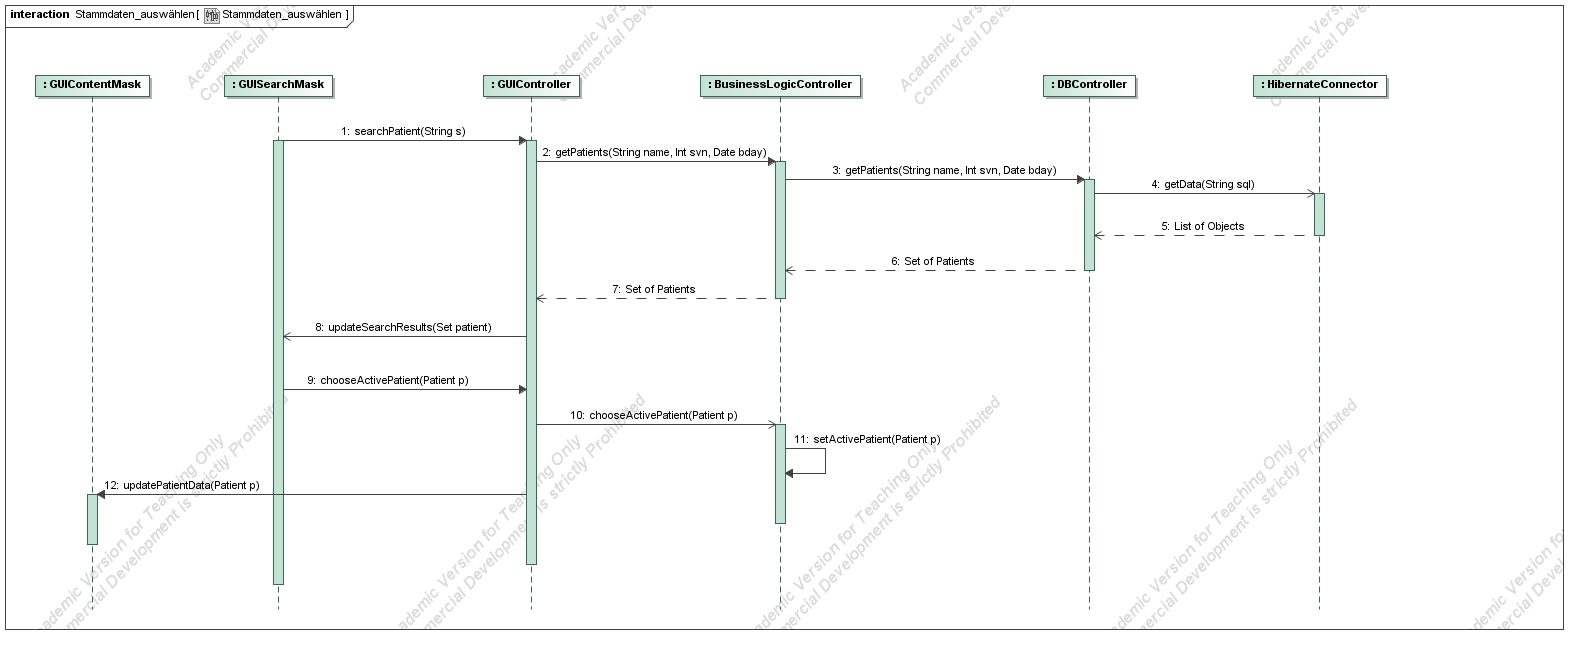
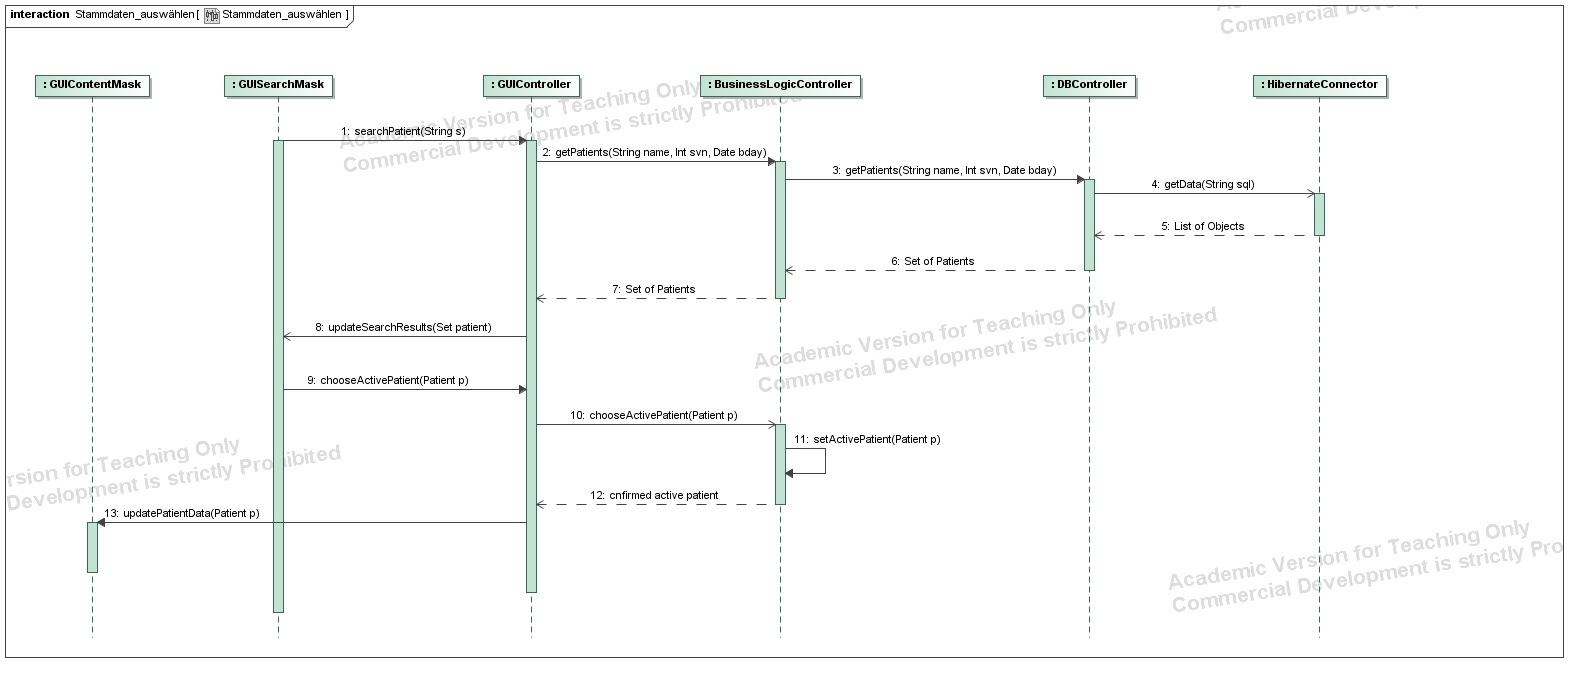
PatientListener, Sequenzdiagramme/Stammdaten_auswählen.jpg

diff --git a/src/at/fhv/teamc/easydiet/view/NavigationTabPane.java b/src/at/fhv/teamc/easydiet/view/NavigationTabPane.java
@@ -10,15 +10,18 @@ import at.easydiet.model.Patient;
 import java.awt.Font;
 import java.net.URL;
 import java.text.SimpleDateFormat;
-import java.util.Date;
+import java.util.ArrayList;
 import java.util.Set;
 import org.apache.pivot.beans.BXML;
 import org.apache.pivot.beans.Bindable;
 import org.apache.pivot.collections.Map;
 import org.apache.pivot.util.Resources;
 import org.apache.pivot.wtk.BoxPane;
+import org.apache.pivot.wtk.Button;
+import org.apache.pivot.wtk.ButtonPressListener;
 import org.apache.pivot.wtk.Label;
 import org.apache.pivot.wtk.LinkButton;
+import org.apache.pivot.wtk.ScrollPane;
 import org.apache.pivot.wtk.TabPane;
 import org.apache.pivot.wtk.TablePane;
 import org.apache.pivot.wtk.TextInput;
@@ -28,7 +31,7 @@ import org.apache.pivot.wtk.content.ButtonData;
  * Represents the application's navigation tabpane (navigation.bxml)
  * @author Michael
  */
-public class NavigationTabPane extends TabPane implements Bindable {
+public class NavigationTabPane extends TabPane implements Bindable, Resizable {
 
     // class variables
     public static final org.apache.log4j.Logger LOGGER = org.apache.log4j.Logger.getLogger(NavigationTabPane.class);
@@ -43,6 +46,13 @@ public class NavigationTabPane extends TabPane implements Bindable {
     private BoxPane _editBoxPane;
     @BXML
     private TablePane _searchResultTablePane;
+    @BXML
+    private ScrollPane _searchResultScrollPane;
+    private ArrayList<PatientListener> _patientListeners;
+
+    {
+        _patientListeners = new ArrayList<PatientListener>();
+    }
 
     /**
      * First called after creating the GUI
@@ -58,6 +68,10 @@ public class NavigationTabPane extends TabPane implements Bindable {
         _navigationBoxPane = (BoxPane) map.get("navigationBoxPane");
         _editBoxPane = (BoxPane) map.get("editBoxPane");
         _searchResultTablePane = (TablePane) map.get("searchResultTablePane");
+        _searchResultScrollPane = (ScrollPane) map.get("searchResultScrollPane");
+
+        // register for resize
+        MainWindow.registerResizableComponent(this);
     }
 
     /**
@@ -89,6 +103,13 @@ public class NavigationTabPane extends TabPane implements Bindable {
             nameLabel.getStyles().put("font", new Font("Verdana", Font.BOLD, 11));
             ButtonData nameButtonData = new ButtonData(p.getForename() + " " + p.getLastname().toUpperCase());
             LinkButton nameButton = new LinkButton(nameButtonData);
+            final Patient patient = p;
+            nameButton.getButtonPressListeners().add(new ButtonPressListener() {
+
+                public void buttonPressed(Button button) {
+                    notifyPatientListeners(patient);
+                }
+            });
             innerNameTro.add(nameLabel);
             innerNameTro.add(nameButton);
             innerTp.getRows().add(innerNameTro);
@@ -117,6 +138,37 @@ public class NavigationTabPane extends TabPane implements Bindable {
             // add inner table to top table
             tro.add(innerTp);
             _searchResultTablePane.getRows().add(tro);
+        }
+    }
+
+    /**
+     * Resize navigation.xml
+     * @param height
+     * @param width
+     */
+    public void resize(int height, int width) {
+        _searchResultScrollPane.setPreferredHeight(height - 85);
+    }
+
+    /**
+     * Register a new patient listener
+     * @param pl patientListener Object
+     */
+    public void registerListener(PatientListener pl){
+
+        // check if already registerd
+        if(!_patientListeners.contains(pl)){
+            _patientListeners.add(pl);
+        }
+    }
+
+    /**
+     * Notify patient listeners, a patient is selected as active
+     * @param p Patient which wants to be active
+     */
+    private void notifyPatientListeners(Patient p){
+        for(PatientListener pl:_patientListeners){
+            pl.chooseActivePatient(p);
         }
     }
 }

diff --git a/src/at/fhv/teamc/easydiet/controller/GUIController.java b/src/at/fhv/teamc/easydiet/controller/GUIController.java
@@ -12,6 +12,7 @@ import at.fhv.teamc.easydiet.view.EasyDietMenuBar;
 import at.fhv.teamc.easydiet.view.EasyDietWindow;
 import at.fhv.teamc.easydiet.view.KeyAdapter;
 import at.fhv.teamc.easydiet.view.NavigationTabPane;
+import at.fhv.teamc.easydiet.view.PatientListener;
 import java.util.Set;
 import org.apache.pivot.collections.Map;
 import org.apache.pivot.wtk.Component;
@@ -21,7 +22,7 @@ import org.apache.pivot.wtk.TextInput;
  * Controls and knows all GUI elements
  * @author Michael
  */
-public class GUIController {
+public class GUIController implements PatientListener {
 
     // class variables
     public static final org.apache.log4j.Logger LOGGER = org.apache.log4j.Logger.getLogger(GUIController.class);
@@ -48,6 +49,9 @@ public class GUIController {
         _menuBar = (EasyDietMenuBar) _guiNamespaces.get("menuBar");
         _contentTab = (ContentTabPane) _guiNamespaces.get("contentTab");
 
+        // register for patient events
+        _navTab.registerListener(this);
+
         // add key event for search textinput field
         _navTab.getSearchTextInput().getComponentKeyListeners().add(new KeyAdapter() {
 
@@ -66,5 +70,21 @@ public class GUIController {
      */
     public void updateSearchResult(Set<Patient> patients) {
         _navTab.updateSearchResult(patients);
+    }
+
+    /**
+     * Set a new active patient
+     * @param p
+     */
+    public void chooseActivePatient(Patient p) {
+        _businessLogicController.chooseActivePatient(p);
+    }
+
+    /**
+     * Update patient data in content tabs
+     * @param p
+     */
+    public void updatePatientData(Patient p){
+        _contentTab.updatePatientData(p);
     }
 }

diff --git a/src/at/fhv/teamc/easydiet/view/ContentTabPane.java b/src/at/fhv/teamc/easydiet/view/ContentTabPane.java
@@ -6,6 +6,7 @@
  */
 package at.fhv.teamc.easydiet.view;
 
+import at.easydiet.model.Patient;
 import java.net.URL;
 import org.apache.pivot.beans.Bindable;
 import org.apache.pivot.collections.Map;
@@ -28,5 +29,17 @@ public class ContentTabPane extends TabPane implements Bindable {
      * @param rsrcs
      */
     public void initialize(Map<String, Object> map, URL url, Resources rsrcs) {
+    }
+
+    /**
+     * Update patient data in tabs
+     * @param p
+     */
+    public void updatePatientData(Patient p){
+        LOGGER.debug("update patients received");
+
+        // select overview tab
+
+        // set data
     }
 }

diff --git a/src/at/fhv/teamc/easydiet/controller/BusinessLogicController.java b/src/at/fhv/teamc/easydiet/controller/BusinessLogicController.java
@@ -6,6 +6,8 @@
  */
 package at.fhv.teamc.easydiet.controller;
 
+import at.easydiet.model.Patient;
+
 /**
  * Controller for business logic
  * @author Michael
@@ -21,5 +23,13 @@ public class BusinessLogicController {
      */
     public void searchPatient(String search) {
         LOGGER.trace("Sucheingabe: " + search);
+    }
+
+        /**
+     * Search patient in database
+     * @param search string
+     */
+    public void chooseActivePatient(Patient p) {
+        LOGGER.trace("Patient: " + p.getInsuranceNumber());
     }
 }

diff --git a/src/at/fhv/teamc/easydiet/view/PatientListener.java b/src/at/fhv/teamc/easydiet/view/PatientListener.java
@@ -1,0 +1,19 @@
+/**
+ * This File is part of Easy Diet
+ * created on: 06.04.2011
+ * created by: Michael
+ * file: PatientListener.java
+ */
+
+package at.fhv.teamc.easydiet.view;
+
+import at.easydiet.model.Patient;
+
+/**
+ * Listener for gui patient chooser
+ * @author Michael
+ */
+public interface PatientListener {
+
+    public void chooseActivePatient(Patient p);
+}

diff --git a/src/at/fhv/teamc/easydiet/view/KeyAdapter.java b/src/at/fhv/teamc/easydiet/view/KeyAdapter.java
@@ -15,7 +15,7 @@ import org.apache.pivot.wtk.Keyboard.KeyLocation;
  * Adapter for Pivot KeyListener
  * @author Michael
  */
-public class KeyAdapter implements ComponentKeyListener {
+public abstract class KeyAdapter implements ComponentKeyListener {
 
     public boolean keyTyped(Component component, char character) {
         return true;

diff --git a/src/at/fhv/teamc/easydiet/view/MainWindow.java b/src/at/fhv/teamc/easydiet/view/MainWindow.java
@@ -50,7 +50,7 @@ public class MainWindow extends ApplicationContext {
         sINITALIZED = false;
         sWINDOW_HEIGHT = 768;
         sWINDOW_WIDTH = 1024;
-        sICON = "ico.png";
+        sICON = "wien_wappen.png";
         sRESIZABLES = new ArrayList<Resizable>();
 
         // Start the callback timer, necessary for pivot
